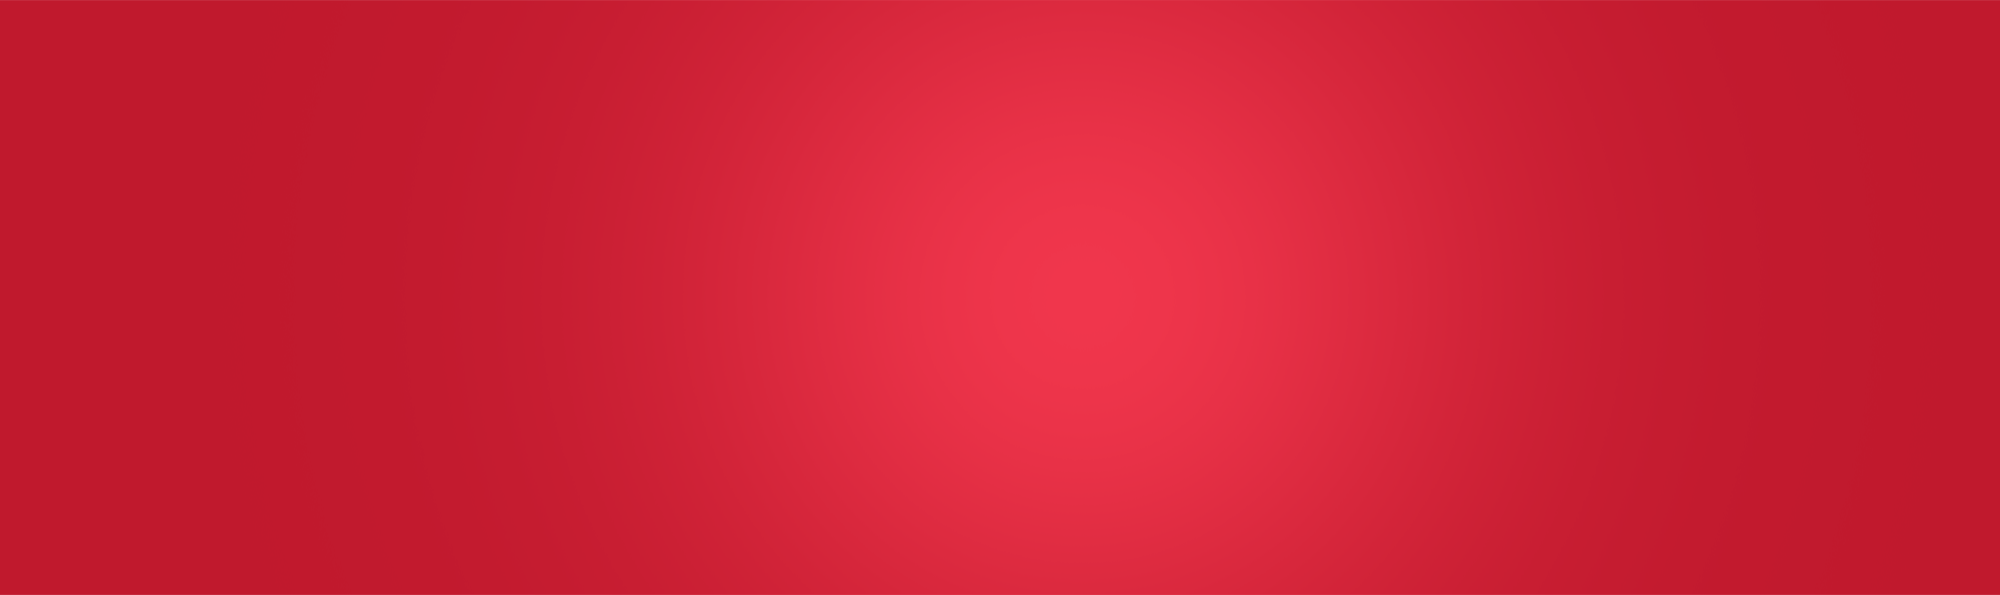
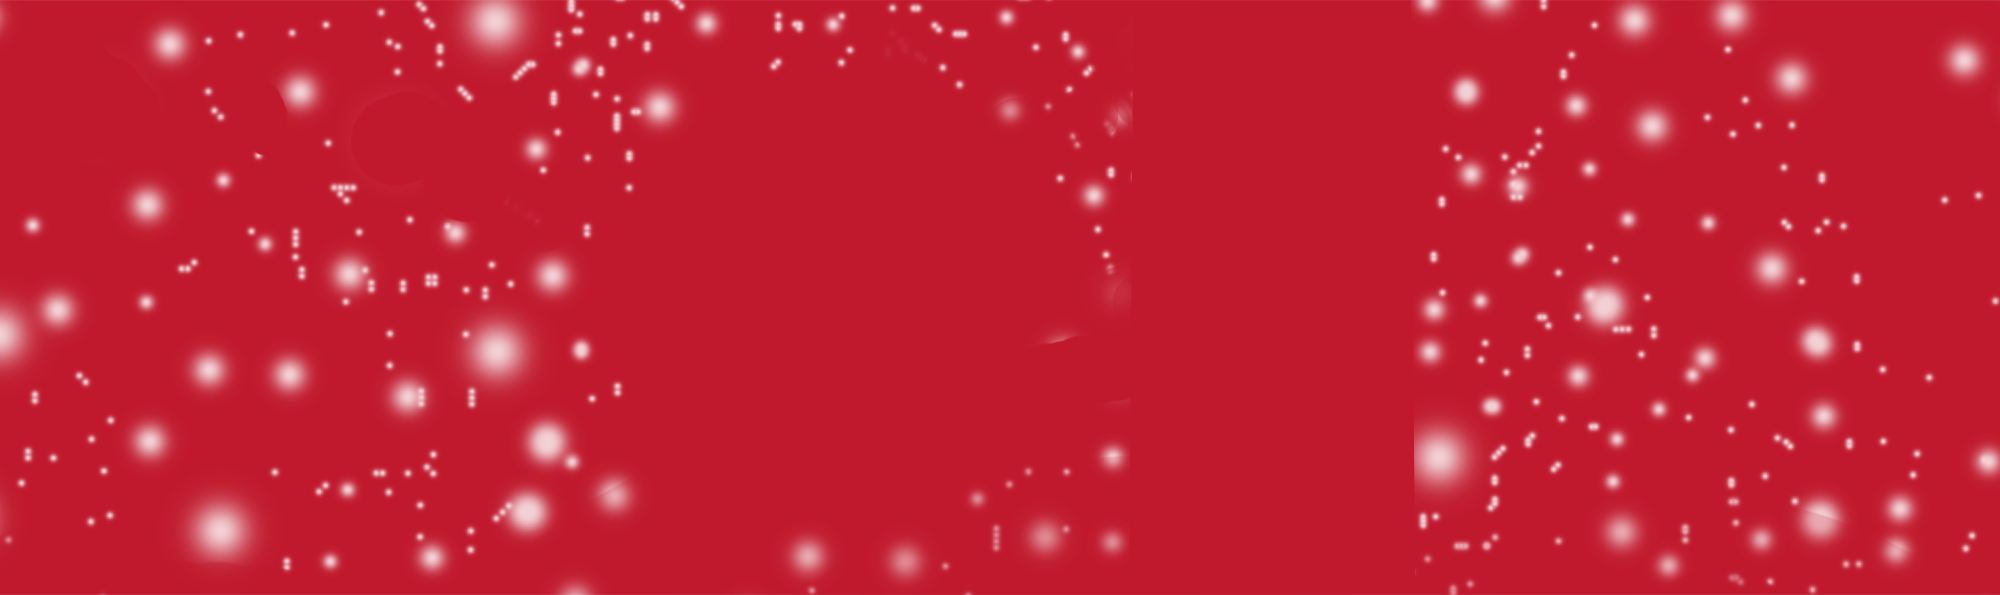
done

diff --git a/style/christmas.css b/style/christmas.css
@@ -1,9 +1,17 @@
 html,body {
 	background-color: #c1192d;
 	position: relative;
-	/*background-image: url('/images/snow_background.png');*/
-	min-width: 2000px;
+	min-width: 1800px;
 	font-family: '微软雅黑';
+}
+
+.snow-bg {
+	background-image: url('/images/snow-bg.png');
+	position: absolute;
+	left: 0;
+	top: 0;
+	width: 100%;
+	height: 100%;
 }
 
 .header {

diff --git a/index.html b/index.html
@@ -8,6 +8,7 @@
 <link rel="stylesheet" type="text/css" href="http://pic.house365.com/static/css/global.css">
 <link rel="stylesheet" type="text/css" href="/style/christmas.css">
 <body>
+<div class="snow-bg"></div>
 <div class="header">
 	<div class="top-star"></div>
 	<div class="gift-title"></div>
